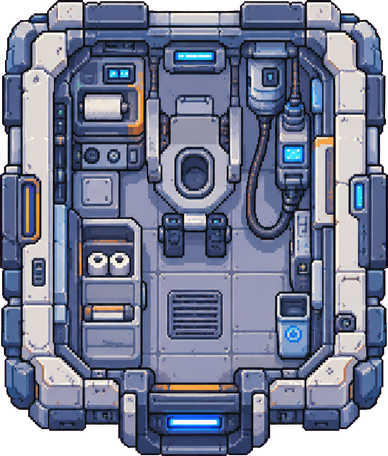
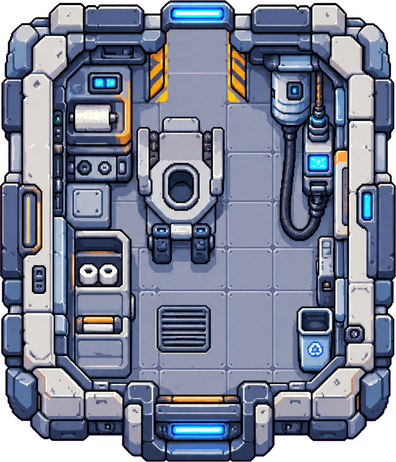
feat: assets da estufa, lab e banheiro novos

diff --git a/scripts/build_station_assets.py b/scripts/build_station_assets.py
@@ -30,11 +30,12 @@ OUT_DIR = ROOT / "src" / "assets" / "station"
 # name -> (source file, scale). Scales put every piece on the same visual grid:
 # the 1536px top-down rooms at 0.5, the 2752px side-view art at 0.25.
 PIECES: dict[str, tuple[str, float]] = {
-    "lab": ("Módulo-Espacial-Laboratorial.png", 0.5),
+    "greenhouse": ("Estufa-Hidropônica-Espacial.png", 0.5),
+    "lab": ("modulo-laboratorial- invertido.jpeg", 0.5),
     "gym": ("Academia.png", 0.5),
     "kitchen": ("Cozinha.png", 0.5),
     "capsules": ("Cápsulas-Espaciais-de-Transporte.png", 0.5),
-    "bathroom": ("Banheiro-Espacial.png", 0.42),
+    "bathroom": ("banheiro-invertido.jpeg", 0.42),
     "dormitory": ("cabine-dormitorio.jpeg", 0.5),
     "node": ("no-de-conexao.jfif", 0.25),
     "airlock": ("airlocks.jfif", 0.25),
@@ -43,12 +44,46 @@ PIECES: dict[str, tuple[str, float]] = {
     "solar": ("Painel-Solar.jpeg", 0.75),
 }
 
+# Pieces whose art itself contains magenta/pink (the greenhouse grow lights): only the
+# magenta connected to the image border is background. Everywhere else every magenta
+# pixel is keyed, so enclosed gaps (e.g. inside the truss lattice) turn transparent too.
+BORDER_KEY_ONLY = {"greenhouse"}
+
+# Doorways painted in the key colour (a see-through gap between the door posts). After
+# keying they would show open space and cut the crew walking through them, so they are
+# filled with the floor right below. Rects are (x0, y0, x1, y1) in built-PNG pixels.
+DOOR_FILLS: dict[str, list[tuple[int, int, int, int]]] = {
+    "bathroom": [(160, 24, 236, 80)],
+    "lab": [(347, 14, 401, 46)],
+}
+# Height of the floor strip (just under the hole) that is tiled upward into it.
+DOOR_FILL_STRIP = 16
+
 # "magenta-ness" = min(R, B) - G. Pure key ~255, neutral greys ~0, blues < 0.
 KEY_OPAQUE_BELOW = 60.0
 KEY_CLEAR_ABOVE = 140.0
 
 
-def key_out_magenta(img: Image.Image) -> Image.Image:
+def connected_to_border(mask: np.ndarray) -> np.ndarray:
+    """Pixels of `mask` reachable from the image border through `mask` (4-neighbour fill)."""
+    reached = np.zeros_like(mask)
+    reached[0, :] = mask[0, :]
+    reached[-1, :] = mask[-1, :]
+    reached[:, 0] = mask[:, 0]
+    reached[:, -1] = mask[:, -1]
+    while True:
+        grown = reached.copy()
+        grown[1:, :] |= reached[:-1, :]
+        grown[:-1, :] |= reached[1:, :]
+        grown[:, 1:] |= reached[:, :-1]
+        grown[:, :-1] |= reached[:, 1:]
+        grown &= mask
+        if np.array_equal(grown, reached):
+            return reached
+        reached = grown
+
+
+def key_out_magenta(img: Image.Image, border_only: bool = False) -> Image.Image:
     rgb = np.asarray(img.convert("RGB")).astype(np.float32)
     r, g, b = rgb[..., 0], rgb[..., 1], rgb[..., 2]
     m = np.minimum(r, b) - g
@@ -58,6 +93,8 @@ def key_out_magenta(img: Image.Image) -> Image.Image:
     key = key_px.mean(axis=0) if len(key_px) else np.array([255.0, 0.0, 255.0])
 
     alpha = np.clip((KEY_CLEAR_ABOVE - m) / (KEY_CLEAR_ABOVE - KEY_OPAQUE_BELOW), 0.0, 1.0)
+    if border_only:
+        alpha = np.where(connected_to_border(m > KEY_OPAQUE_BELOW), alpha, 1.0)
 
     # Un-blend partially keyed pixels: C = a*F + (1-a)*K  =>  F = (C - (1-a)K) / a
     a = alpha[..., None]
@@ -69,9 +106,30 @@ def key_out_magenta(img: Image.Image) -> Image.Image:
     return Image.fromarray(out, "RGBA")
 
 
+def fill_doorways(img: Image.Image, rects: list[tuple[int, int, int, int]]) -> Image.Image:
+    """Put floor under the see-through part of each doorway rect (the art stays on top)."""
+    px = np.asarray(img).copy()
+    for x0, y0, x1, y1 in rects:
+        hole = px[y0:y1, x0:x1, 3] < 250
+        rows = np.nonzero(hole.any(axis=1))[0]
+        if len(rows) == 0:
+            continue
+        top = y0 + rows.min()
+        src_y = y0 + rows.max() + 2  # first rows of solid floor under the hole
+        strip = px[src_y : src_y + DOOR_FILL_STRIP, x0:x1].astype(np.float32)
+        # Tile the strip upward so the floor pattern continues into the doorway.
+        fill = np.concatenate([strip] * (-(-(src_y - top) // DOOR_FILL_STRIP)), axis=0)[-(src_y - top):]
+        region = px[top:src_y, x0:x1].astype(np.float32)
+        a = region[..., 3:4] / 255.0
+        region[..., :3] = region[..., :3] * a + fill[..., :3] * (1 - a)
+        region[..., 3] = 255
+        px[top:src_y, x0:x1] = region.round().astype(np.uint8)
+    return Image.fromarray(px, "RGBA")
+
+
 def build_piece(name: str, src_name: str, scale: float) -> tuple[int, int]:
     src = SRC_DIR / src_name
-    keyed = key_out_magenta(Image.open(src))
+    keyed = key_out_magenta(Image.open(src), border_only=name in BORDER_KEY_ONLY)
 
     # Trim to the visible content (ignore near-transparent JPEG noise).
     alpha = np.asarray(keyed)[..., 3]
@@ -82,6 +140,8 @@ def build_piece(name: str, src_name: str, scale: float) -> tuple[int, int]:
     h = max(1, round(keyed.height * scale))
     # Pillow resamples RGBA with premultiplied alpha, so edges stay clean.
     resized = keyed.resize((w, h), Image.Resampling.LANCZOS)
+    if name in DOOR_FILLS:
+        resized = fill_doorways(resized, DOOR_FILLS[name])
 
     OUT_DIR.mkdir(parents=True, exist_ok=True)
     resized.save(OUT_DIR / f"{name}.png", optimize=True)
